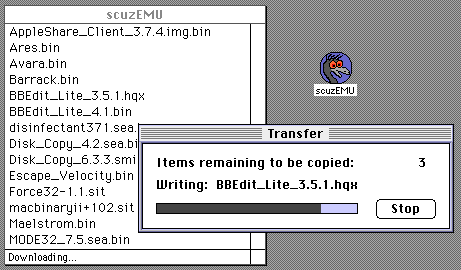
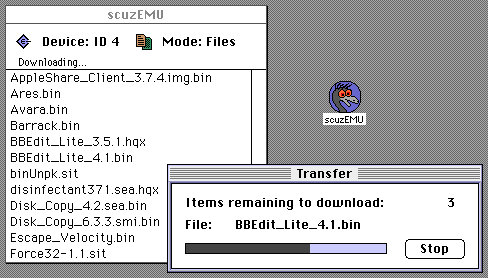
Bump to v0.5

diff --git a/README.md b/README.md
@@ -60,19 +60,8 @@ clicking "Yes" when asked if you'd like to continue connecting.
 Bugs And Missing Features
 -------------------------
 
-The following issues are known to exist in this application:
-
-* Some graphical elements are missing.
-* Downloading is slower than it should be; adding blind transfers on supported
-  systems would probably improve this.
-
-More generally:
-
-* Testing on System 6 has been minimal. It should theoretically work, at least
-  under 6.0.8, but as a kid who grew up with System 7 I prefer that environment
-  on my retro Macs and have done most of my debugging there.
-* The user interface is simple, to a fault. I haven't decided if that is good
-  or bad yet.
+The program should be mostly feature-complete. Any known problems or planned
+enhancements will be listed on Github.
 
 I am a novice Mac application developer and the code likely shows it. There are
 many more bugs yet to be discovered. If you find one, please report it!
@@ -98,6 +87,11 @@ Changelog
 ---------
 
 Major changes in each release:
+
+### 0.5
+
+- Fixed some significant bugs found on earlier systems.
+- User interface adjustments.
 
 ### 0.4
 
